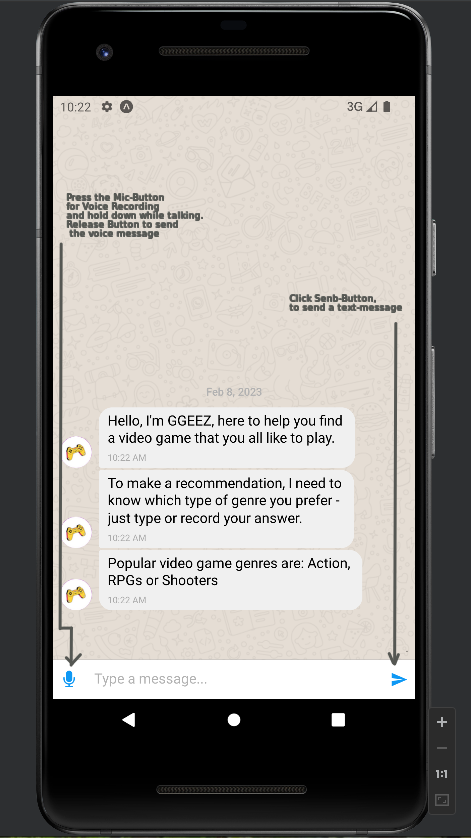
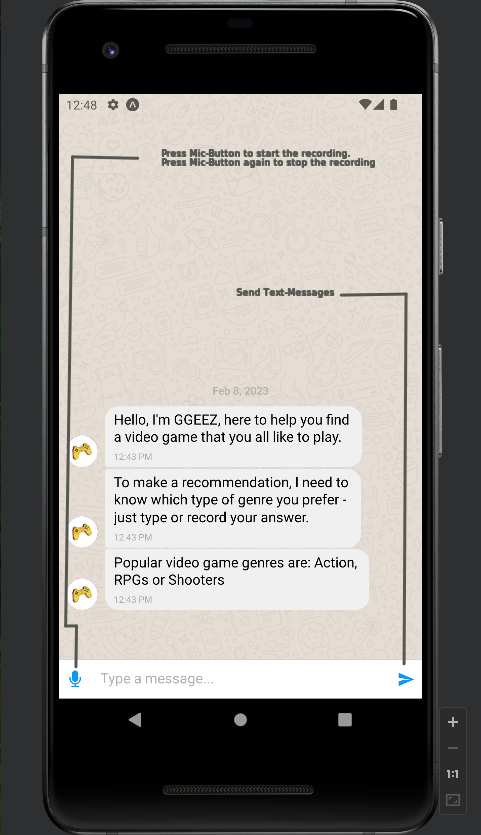
changed recording process. Updated Readme

Changed region(s): [[0.0, 0.0, 1.0, 1.0], [0.7431, 0.0934, 0.8323, 0.1557]]

diff --git a/frontend/components/Chat.js b/frontend/components/Chat.js
@@ -194,6 +194,7 @@ const Chat = () => {
         };
 
         const audioURI = recording.getURI();
+
         console.log('Recording stopped and stored at', audioURI);
 
         const blob = await new Promise((resolve, reject) => {
@@ -210,6 +211,8 @@ const Chat = () => {
         });
 
         const audioBase64 = await blobToBase64(blob);
+
+        console.log(audioBase64);
 
         sendAudio(JSON.stringify({
             inputFile: audioBase64
@@ -230,8 +233,7 @@ const Chat = () => {
         return (
             <View>
                 <Pressable
-                    onPressIn={startRecording}
-                    onPressOut={stopRecording}
+                    onPress={recording ? stopRecording : startRecording}
                     android_ripple={{
                         color: '#dddddd',
                         radius: 100

diff --git a/frontend/README.md b/frontend/README.md
@@ -31,7 +31,7 @@ For `expo-cli` <mark>`sudo`</mark> might be needed for installation
 
 ## Usage
 
-- To start the <mark>local</mark> expo server, type `npx expo start` in same directory as package.json file <br/>
+- To start the <mark>local</mark> expo server, type `npx expo start` in same directory as <mark>package.json</mark> file <br/>
    - To connect to official expo server, type `expo start` <br/>
 - For ADV: 
   - Start Emulator
